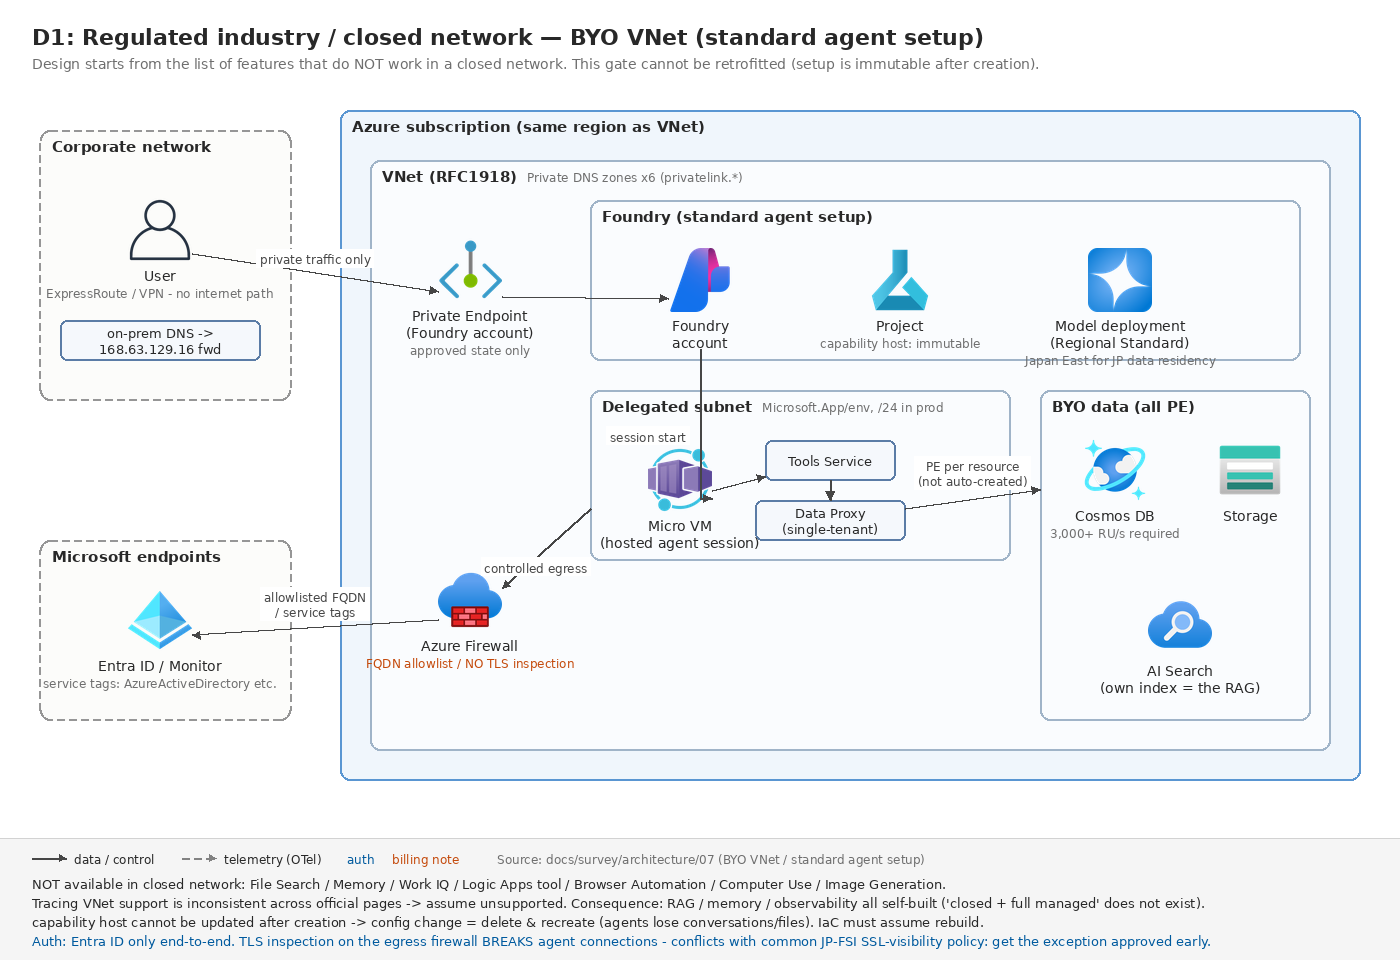
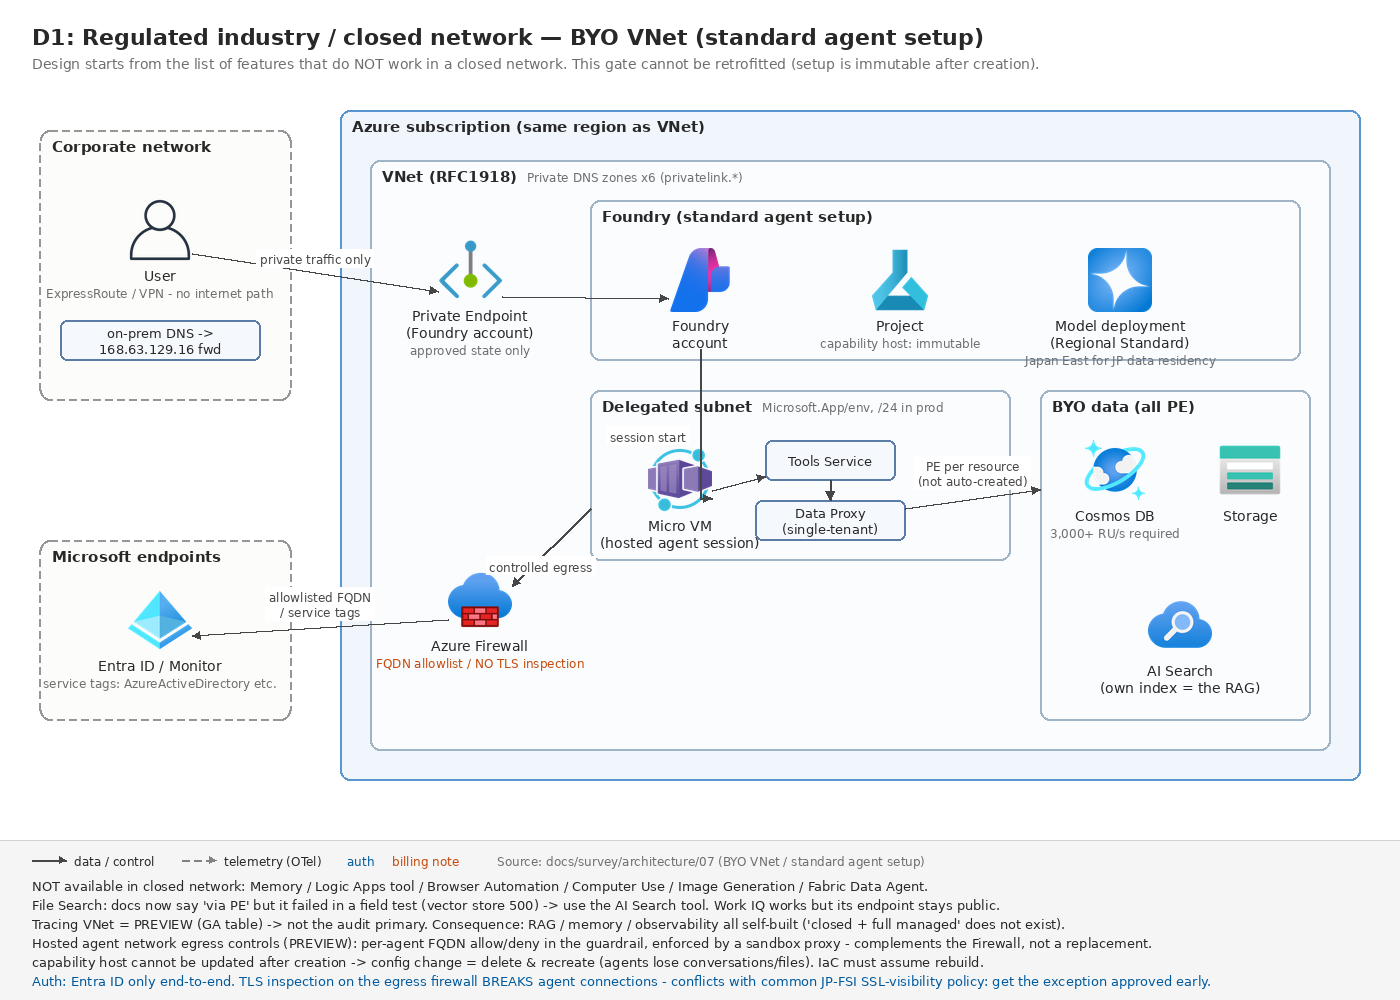
survey/architecture: refresh nine diagrams to match the September 2026 status changes.

diff --git a/docs/survey/architecture/diagrams/d3-edge-onprem.py b/docs/survey/architecture/diagrams/d3-edge-onprem.py
@@ -19,27 +19,28 @@ d = Diagram(
     "request-only) vs air-gapped tool containers (per-service).",
 )
 
-c1 = d.cluster(40, 120, 460, 740, "End-user device — Foundry Local (GA)", kind="local")
-app = d.node(170, 260, icon("cli"), "Your app + SDK\n(in-process, ONNX)",
+c1 = d.cluster(40, 120, 460, 700, "End-user device — Foundry Local (GA)", kind="local")
+app = d.node(250, 260, icon("cli"), "Your app + SDK\n(in-process, ONNX)",
              note="~20MB, GPU/NPU auto-detect")
-m1 = d.box(170, 430, 280, 52, "Chat models (GPT-OSS / Phi /\nQwen / Mistral...) + Whisper ONLY")
-n1 = d.box(170, 560, 280, 52, "single user per device\nNOT a server runtime (official)")
+m1 = d.box(250, 430, 300, 52, "Chat models (GPT-OSS / Phi /\nQwen / Mistral...) + Whisper ONLY")
+n1 = d.box(250, 560, 300, 52, "single user per device\nNOT a server runtime (official)")
 d.edge(app, m1)
 
-c2 = d.cluster(490, 120, 920, 740, "On-prem K8s — Azure Local (preview)", kind="local",
+c2 = d.cluster(490, 120, 920, 700, "On-prem K8s — Azure Local (preview)", kind="local",
                sublabel="request-only")
-arc = d.node(620, 260, az("other/arc-kubernetes.png"), "Arc extension\ninference operator",
+arc = d.node(705, 260, az("other/arc-kubernetes.png"), "Arc extension\ninference operator",
              note="Model / ModelDeployment CRDs")
-eng = d.box(620, 430, 290, 48, "ONNX-GenAI (CPU/GPU) or\nvLLM (GPU, high-throughput)")
-gw = d.box(620, 550, 290, 52, "Service / Gateway API\nkey / Entra (disconnected: on-prem AD)")
+eng = d.box(705, 430, 300, 48, "ONNX-GenAI (CPU/GPU) or\nvLLM (GPU, high-throughput)")
+gw = d.box(705, 545, 330, 62, "Service / Gateway API\nkey / Entra / K8s SAT (ext. 2609)\n(disconnected: on-prem AD)")
+rd = d.box(705, 645, 330, 44, "ext. 2609: extension MI needs Reader\non the Arc K8s cluster (new prereq)")
 d.edge(arc, eng)
 d.edge(eng, gw)
 
-c3 = d.cluster(950, 120, 1360, 740, "Air-gapped — disconnected containers", kind="local")
-di = d.node(1080, 260, icon("container"), "Document Intelligence\ncontainer",
+c3 = d.cluster(950, 120, 1360, 700, "Air-gapped — disconnected containers", kind="local")
+di = d.node(1155, 260, icon("container"), "Document Intelligence\ncontainer",
             note="the ONLY structured extraction on-prem")
-oth = d.box(1080, 430, 300, 52, "Vision Read OCR / Speech /\nLanguage / Translator (gated)")
-cu = d.box(1080, 560, 300, 52, "Content Understanding:\nNO container -> impossible on-prem")
+oth = d.box(1155, 430, 320, 52, "Vision Read OCR / Speech /\nLanguage / Translator (gated)")
+cu = d.box(1155, 560, 320, 52, "Content Understanding:\nNO container -> impossible on-prem")
 
 d.footer(
     notes=[
@@ -51,8 +52,8 @@ d.footer(
         "subscription. Content Safety container docs are inconsistent -> verify before air-gap deals.",
     ],
     auth=[
-        "Auth: device = none (local) / Azure Local connected = Entra, disconnected = on-prem AD "
-        "(Contributor role includes data-plane inference - broader than cloud RBAC)",
+        "Auth: device = none / Azure Local: Entra (connected), on-prem AD (disconnected), K8s SAT for "
+        "in-cluster calls (2609) / Contributor includes data-plane inference",
     ],
     config_note="Source: docs/survey/architecture/07 §9",
 )

diff --git a/docs/survey/architecture/diagrams/b2-hitl-automation.py b/docs/survey/architecture/diagrams/b2-hitl-automation.py
@@ -14,7 +14,7 @@ from archdiagram import BLUE, ORANGE, TELEM, Diagram, az, icon, res  # noqa: E40
 d = Diagram(
     "B2: Approval-gated automation (HITL) — MAF hosted agent",
     width=1400,
-    height=900,
+    height=920,
     subtitle="Agent investigates -> proposes action -> human approves -> execute -> audit. "
     "Prompt agents cannot express this: branch / wait / resume => code-first.",
 )
@@ -35,12 +35,12 @@ hosted = d.node(490, 300, icon("containerapp"), "Hosted agent\ncontainer", note=
 triage = d.box(660, 260, 110, 40, "triage")
 research = d.box(800, 260, 110, 40, "research\n(RAG)")
 proposal = d.box(800, 340, 110, 40, "action\nproposal")
-hitl = d.box(660, 340, 120, 44, "RequestInfo\nExecutor (HITL)")
+hitl = d.box(660, 340, 130, 44, "RequestInfo\nExecutor (HITL)")
 execute = d.box(660, 430, 110, 40, "execute\n(tools)")
 audit = d.box(800, 430, 110, 40, "audit\nrecord")
 d.edge(triage, research)
 d.edge(research, proposal)
-d.edge(proposal, hitl, label="approve?", label_t=0.5, label_dy=14)
+d.edge(proposal, hitl, label="approve?", label_t=0.5, label_dy=28)
 d.edge(hitl, execute, label="approved", label_t=0.5, label_dx=-40)
 d.edge(execute, audit)
 
@@ -57,8 +57,8 @@ erp = d.node(1270, 570, icon("browser"), "Core systems /\nLogic Apps connectors"
 
 # --- edges -------------------------------------------------------------------
 d.edge(teams, hosted, label="Responses API", label_t=0.45, label_dy=-14)
-d.edge(hitl.port("left", 0.5), (310, 362), arrow=False, color=BLUE)
-d.edge((310, 362), user, label="approval request /\ndecision", label_color=BLUE, label_t=0.4,
+d.edge(hitl.port("left", 0.5), (310, 405), via=[(580, 340), (580, 405)], arrow=False, color=BLUE)
+d.edge((310, 405), user, label="approval request /\ndecision", label_color=BLUE, label_t=0.4,
        label_dy=-26, color=BLUE)
 d.edge(ha.port("right", 0.25), model, label="chat + tool calls", label_t=0.4, label_dy=-12)
 d.edge(execute, apim, via=[(660, 610), (1230, 610)], label="MCP tool calls",
@@ -69,10 +69,12 @@ d.edge(ha.port("right", 0.75), appi, style="dashed", color=TELEM,
 
 d.footer(
     notes=[
-        "Idle 15 min = compute deprovision (state kept) / 30 days inactive = permanent delete. "
-        "Multi-day approvals -> B3 (Durable Extension + DTS).",
+        "Idle timeout (default 15 min, 2-60 min per agent version) = compute deprovision (state kept) / "
+        "30 days inactive = permanent delete.",
+        "Multi-day approvals -> B3 (Durable Extension + DTS), or in-agent long-running HITL "
+        "(@multi_turn_task + durable state store) = PREVIEW.",
         "Tracing is NOT the business audit log: 90-day portal window, traces may carry prompts/PII, "
-        "no VNet support -> keep who/when/what-approved in your own store (MAF middleware).",
+        "Tracing VNet = preview -> keep who/when/what-approved in your own store (MAF middleware).",
         "$Billing = CPU + memory of all active sessions; oversizing multiplies by concurrency. "
         "MAF Graph API is the supported surface (Functional API is experimental).",
     ],

diff --git a/docs/survey/architecture/diagrams/e1-voice.py b/docs/survey/architecture/diagrams/e1-voice.py
@@ -14,7 +14,7 @@ from archdiagram import BLUE, ORANGE, Diagram, az, icon, res  # noqa: E402
 d = Diagram(
     "E1: Voice agent / contact center — Voice Live via ACS (SIP is not native)",
     width=1400,
-    height=860,
+    height=880,
     subtitle="Voice Live = managed speech-to-speech (STT + LLM + TTS + avatar in one API). "
     "Telephony arrives through Azure Communication Services, never directly.",
 )
@@ -30,13 +30,15 @@ mid = d.node(650, 280, az("appservices/app-services.png"), "Your middle tier\n(s
              note="never client-direct in prod")
 
 vl = d.cluster(790, 160, 1330, 600, "Voice Live API (Speech resource)", kind="sub",
-               sublabel="Preview per GA table (2026-07)")
+               sublabel="API = GA / portal agent UI = preview")
 sess = d.node(890, 300, icon("speech"), "Voice Live\nsession",
               note="WebSocket (prod) / WebRTC (preview)")
 stt = d.box(1130, 230, 170, 40, "STT (azure /\nwhisper / mai)")
 llm = d.box(1130, 310, 170, 44, "LLM (gpt-realtime /\ngpt-5.x / phi4)")
 tts = d.box(1130, 400, 170, 44, "TTS 600+ voices\n/ avatar (WebRTC)")
 tools = d.box(1000, 510, 280, 40, "function calling / MCP / VoiceRAG")
+va = d.box(560, 560, 400, 64, "Alt (preview): voice-based agent (kind: voice)\n"
+           "phone channel: Teams Phone (via ACS) / Twilio\nruns on Voice Live - no middle tier to write")
 
 d.edge(caller, acs, label="audio", label_t=0.5, label_dy=-14)
 d.edge(acs, mid, label="bidirectional stream (WS)\nPCM 16/24kHz, 20ms", label_t=0.5, label_dy=-28)
@@ -44,16 +46,20 @@ d.edge(mid, sess, label="WebSocket\n+ Entra ID", label_color=BLUE, label_t=0.5, 
 d.edge(sess, stt, label="audio in", label_t=0.55, label_dy=-16)
 d.edge(stt, llm)
 d.edge(llm, tts)
-d.edge(tts, sess, label="audio out", label_t=0.45, label_dy=18)
+d.edge((140, 306), va, via=[(140, 560)], label="phone number binding\n(preview)", label_t=0.62,
+       label_dy=-24)
+d.edge(tts, sess, label="audio out", label_t=0.3, label_dy=-16)
 
 d.footer(
     notes=[
-        "Sizing starts from quotas: max session 60 min / 30 new connections per min / "
-        "TPM = NCPM x 4,000 -> contact-center scale ALWAYS needs a quota request.",
+        "Sizing starts from quotas: max session 60 min / NCPM 100 / TPM <= 120,000 (page conflicts with "
+        "TPM = NCPM x 4,000) -> contact-center scale ALWAYS needs a quota request.",
         "429 also fires while autoscale catches up -> exponential backoff mandatory "
         "(official ramp: +20 connections per 90-120s).",
         "Guardrails do NOT apply to voice models -> run Content Safety on the text path "
         "after STT. Semantic VAD supports Japanese; barge-in built in.",
+        "Status by surface: Voice Live API (WebSocket / SDK) + hosted agents x Voice Live = GA / portal "
+        "'Agents - Voice Live', voice-based agents, phone channel = PREVIEW.",
     ],
     auth=[
         "Auth: Entra ID recommended (agent-connect mode REQUIRES Entra) / WebRTC is preview: "

diff --git a/docs/survey/architecture/diagrams/e4-media-gen.py b/docs/survey/architecture/diagrams/e4-media-gen.py
@@ -14,7 +14,7 @@ from archdiagram import BLUE, ORANGE, Diagram, az, icon, res  # noqa: E402
 d = Diagram(
     "E4: Image / video generation — queue-based load leveling is mandatory",
     width=1400,
-    height=860,
+    height=880,
     subtitle="Rate limits rule the design: images 6-36 RPM (Data Zone = 1/3), Sora 2 at "
     "2 job RPM + 2 concurrent + 24h job expiry. No official AAC pattern exists.",
 )
@@ -26,9 +26,9 @@ azc = d.cluster(290, 110, 1360, 700, "Azure subscription", kind="azure")
 queue = d.node(420, 280, az("storage/queues-storage.png"), "Queue\n(load leveling)")
 worker = d.node(630, 280, icon("containerapp"), "Worker\n(rate-limited)",
                 note="429 -> exponential backoff")
-img = d.node(870, 200, icon("model"), "Images: sync API\n(gpt-image-2 GA / FLUX.2)",
-             note="RPM only, no TPM; Data Zone = 1/3 of Global", note_color=ORANGE)
-vid = d.node(870, 420, icon("model"), "Video: Sora 2 jobs\n(preview)",
+img = d.node(870, 200, icon("model"), "Images: sync API\n(gpt-image-2 / -2.5 GA, FLUX.2)",
+             note="RPM only; Data Zone = 1/3; 2.5 = 5 RPM", note_color=ORANGE)
+vid = d.node(870, 420, icon("model"), "Video: Sora 2 jobs\n(preview, retires 2026-10-15)",
              note="2 RPM / 2 concurrent / job expires in 24h", note_color=ORANGE)
 blob = d.node(1130, 300, az("storage/blob-storage.png"), "Blob\n(evacuate <= 24h)",
               note="no BYO-storage output documented")
@@ -37,17 +37,19 @@ pub = d.box(1130, 610, 230, 44, "promote to\npublic storage")
 
 d.edge(api, queue)
 d.edge(queue, worker)
-d.edge(worker, img, label="generate (sync)", label_t=0.35, label_dy=-24)
+d.edge(worker, (834, 210), label="generate (sync)", label_t=0.4, label_dy=-16)
 d.edge(worker, vid, label="create job -> poll\n(state in Cosmos DB)", label_t=0.5, label_dy=26)
 d.edge(img, blob, route="hv")
-d.edge(vid, blob, route="hv")
+d.edge((904, 420), (1096, 300), via=[(1010, 420), (1010, 300)])
 d.edge(blob, safety)
 d.edge(safety, pub)
 
 d.footer(
     notes=[
-        "Provenance: images get C2PA Content Credentials automatically (doc is classic-portal "
-        "only; gpt-image-2 not explicitly listed) - video has NO documented provenance -> DIY C2PA.",
+        "Provenance: new Foundry article lists gpt-image-1-mini / -1.5 / -2 (C2PA + invisible watermark); "
+        "gpt-image-1 & -2.5 not listed; video has NONE -> DIY C2PA.",
+        "Lifecycle: gpt-image-2.5-sunburst / -flare GA (GlobalStandard only, fixed 5 RPM at every tier, no "
+        "Data Zone) / sora-2 retires 2026-10-15 with NO successor / gpt-image-1 retires 2026-10-23.",
         "Sora 2 RAI blocks: IP & photorealistic content, real people, copyrighted characters/music, "
         "faces in input images -> kills many commercial use cases; check at planning stage.",
         "Data-residency vs throughput collide head-on: Data Zone image RPM is 1/3 of Global. "

diff --git a/docs/survey/architecture/diagrams/a5-foundry-iq.py b/docs/survey/architecture/diagrams/a5-foundry-iq.py
@@ -14,7 +14,7 @@ from archdiagram import BLUE, ORANGE, Diagram, az, icon, res  # noqa: E402
 d = Diagram(
     "A5: Multi-source, high-accuracy retrieval — Foundry IQ (agentic retrieval)",
     width=1400,
-    height=840,
+    height=880,
     subtitle="Knowledge base = the shared knowledge layer. MCP-served, so Agent Service, MAF, "
     "LangGraph and your own apps all consume the SAME knowledge.",
 )
@@ -35,11 +35,12 @@ ks4 = d.box(1230, 490, 140, 52, "SharePoint /\nSQL / MCP\n(preview)")
 agent = d.node(230, 240, icon("project"), "Foundry agent\n(Agent Service)",
                note="knowledge_base_retrieve tool")
 maf = d.node(230, 420, icon("cli"), "MAF / LangGraph /\nyour own app", note="same KB via MCP")
-resp = d.box(230, 590, 250, 48, "Azure OpenAI Responses API\n(for per-user SharePoint authz)")
+resp = d.box(230, 590, 250, 48, "Azure OpenAI Responses API\n(alternative path, per-user authz)")
 
-d.edge(agent, kb, label="MCP\n(2026-05-01-preview)", label_t=0.45, label_dy=-26)
+d.edge(agent, kb, label="MCP (2026-08-01-preview)\n+ per-call user token header", label_color=BLUE,
+       label_t=0.45, label_dy=-26)
 d.edge(maf, kb, label="MCP", label_t=0.5, label_dy=-14)
-d.edge(resp, kb, label="official path for per-user\npermission passthrough", label_color=BLUE,
+d.edge(resp, kb, label="user token\nheader passthrough", label_color=BLUE,
        label_t=0.4, label_dy=26)
 d.edge(kb, model)
 d.edge(kb, ks1)
@@ -52,13 +53,17 @@ d.footer(
         "GA vs preview is cut by REST API version: portal-built configs are ALL preview; "
         "GA requires REST/SDK 2026-04-01 directly. SLA clauses hinge on this.",
         "GA loses ingestionPermissionOptions -> 'GA config + doc-level ACL' do NOT coexist today "
-        "(ACL needs 2026-05-01-preview).",
+        "(ACL needs a preview API; latest = 2026-08-01-preview).",
         "$Billing: AI Search knowledgeRetrieval tokens (50M free/month) + AOAI planning/synthesis. "
-        "S3 HD tier has ZERO knowledge sources = agentic retrieval unusable.",
+        "S3 HD: knowledge-source limit 0 -> 1,000/partition or 3,000/service",
+        "$(limits page 2026-09-16), but some older S3 HD services are unsupported -> verify KB creation "
+        "on the actual service first.",
     ],
     auth=[
-        "Auth: Agent Service cannot send request-scoped MCP headers -> per-user SharePoint authz "
-        "officially requires the Responses API path, not Agent Service",
+        "Auth: Agent Service CAN pass the user token per call (structured input -> {{placeholder}} in "
+        "MCP header x-ms-query-source-authorization).",
+        "Auth: NO token = permission-enabled sources return results UNFILTERED (no error) -> "
+        "enforce a token-required check in the caller.",
     ],
     config_note="Source: docs/survey/architecture/04 A5",
 )

diff --git a/docs/survey/architecture/diagrams/b4-multi-agent.py b/docs/survey/architecture/diagrams/b4-multi-agent.py
@@ -14,7 +14,7 @@ from archdiagram import BLUE, ORANGE, Diagram, az, icon, res  # noqa: E402
 d = Diagram(
     "B4: Multi-agent with domain specialization — MAF workflow + hosted agents",
     width=1400,
-    height=880,
+    height=900,
     subtitle="Only when per-domain prompts / knowledge / PERMISSIONS must differ, or parallel "
     "research pays. Single agent + tools is enough for most cases (-> ch.11).",
 )
@@ -36,22 +36,24 @@ model = d.node(920, 410, icon("model"), "Model\ndeployment(s)", note="size per a
 
 ext = d.cluster(1090, 200, 1340, 450, "Partner / other org", kind="external")
 pa = d.node(1215, 300, icon("project"), "External agent",
-            note="A2A: text-only, no SSE (preview)")
+            note="A2A v1.0 GA / v0.3 preview")
 
 d.edge(user, wf)
 d.edge(wf, a1, label="sequential / concurrent /\nhandoff / group chat / magentic",
        label_t=0.45, label_dy=-30)
-d.edge(wf, a2)
-d.edge(wf, a3)
+d.edge(wf.port("right", 0.3), a2)
+d.edge(wf.port("right", 0.3), a3)
 d.edge(a2, model, label="each agent -> model\n(size per task)", label_t=0.5, label_dy=-28)
-d.edge(a1, pa, label="A2A (Entra required)", label_color=BLUE, label_t=0.55, label_dy=-16)
+d.edge(a1, pa, label="A2A v1.0 (Entra required)", label_color=BLUE, label_t=0.55, label_dy=-16)
 
 d.footer(
     notes=[
         "Portal visual Workflows retire 2026-12-01 -> MAF (code, recommended) / Logic Apps (visual) / "
         "A2A (simple delegation). Export the YAML before the designer disappears.",
-        "Prompt agents SHARE one identity per project -> per-agent permissions & audit need hosted "
-        "agents (each gets its own Entra Agent ID) or separate projects.",
+        "A2A: v1.0 (tool type a2a) is GA; v0.3 / a2a_preview = preview AND the default when unversioned "
+        "-> pin A2A-Version: 1.0. Still text-only, no SSE.",
+        "Prompt agents share one project identity (classic model; new object model = per-agent, check "
+        "agent.identity) -> hosted agents or separate projects.",
         "Security trimming must be implemented in EVERY agent (official). Anti-patterns: agents "
         "without real specialization, shared mutable state between parallel agents.",
     ],

diff --git a/docs/survey/architecture/diagrams/d1-closed-network.py b/docs/survey/architecture/diagrams/d1-closed-network.py
@@ -14,7 +14,7 @@ from archdiagram import BLUE, ORANGE, TELEM, Diagram, az, icon, res  # noqa: E40
 d = Diagram(
     "D1: Regulated industry / closed network — BYO VNet (standard agent setup)",
     width=1400,
-    height=960,
+    height=1000,
     subtitle="Design starts from the list of features that do NOT work in a closed network. "
     "This gate cannot be retrofitted (setup is immutable after creation).",
 )
@@ -52,7 +52,7 @@ storage = d.node(1250, 470, az("storage/storage-accounts.png"), "Storage")
 search = d.node(1180, 625, az("appservices/cognitive-search.png"),
                 "AI Search\n(own index = the RAG)")
 
-fw = d.node(470, 600, az("network/firewall.png"), "Azure Firewall",
+fw = d.node(480, 600, az("network/firewall.png"), "Azure Firewall",
             note="FQDN allowlist / NO TLS inspection", note_color=ORANGE)
 
 # --- egress ------------------------------------------------------------------
@@ -73,10 +73,14 @@ d.edge(fw, ms, label="allowlisted FQDN\n/ service tags", label_t=0.5, label_dy=-
 
 d.footer(
     notes=[
-        "NOT available in closed network: File Search / Memory / Work IQ / Logic Apps tool / "
-        "Browser Automation / Computer Use / Image Generation.",
-        "Tracing VNet support is inconsistent across official pages -> assume unsupported. "
+        "NOT available in closed network: Memory / Logic Apps tool / Browser Automation / Computer Use / "
+        "Image Generation / Fabric Data Agent.",
+        "File Search: docs now say 'via PE' but it failed in a field test (vector store 500) -> use the AI Search "
+        "tool. Work IQ works but its endpoint stays public.",
+        "Tracing VNet = PREVIEW (GA table) -> not the audit primary. "
         "Consequence: RAG / memory / observability all self-built ('closed + full managed' does not exist).",
+        "Hosted agent network egress controls (PREVIEW): per-agent FQDN allow/deny in the guardrail, enforced by "
+        "a sandbox proxy - complements the Firewall, not a replacement.",
         "capability host cannot be updated after creation -> config change = delete & recreate "
         "(agents lose conversations/files). IaC must assume rebuild.",
     ],

diff --git a/docs/survey/architecture/diagrams/b3-durable.py b/docs/survey/architecture/diagrams/b3-durable.py
@@ -14,7 +14,7 @@ from archdiagram import BLUE, ORANGE, TELEM, Diagram, az, icon, res  # noqa: E40
 d = Diagram(
     "B3: Long-running processes with guaranteed resume — MAF + Durable Extension",
     width=1400,
-    height=800,
+    height=820,
     subtitle="Multi-day approvals, waiting on external batches, resume-from-failed-step. "
     "Check this BEFORE concluding 'MAF can't do long-running, switch to LangGraph'.",
 )
@@ -38,9 +38,9 @@ store = d.node(1030, 490, az("storage/storage-accounts.png"), "Durable state\n(f
 d.edge(user, maf, label="request", label_t=0.5, label_dy=-14)
 d.edge(evt, host.port("left", 0.75), label="resume signal", label_t=0.5, label_dy=16)
 d.edge(maf, hitl, label="request info", label_t=0.5, label_dy=-14)
-d.edge(hitl, user, label="approve / reject", label_color=BLUE, label_t=0.35, label_dy=18)
+d.edge(hitl, user, label="approve / reject", label_color=BLUE, label_t=0.55, label_dy=18)
 d.edge(maf, dur)
-d.edge(dur, dts, label="checkpoint per\nsuperstep", label_t=0.82, label_dx=10, label_dy=0,
+d.edge(dur, dts, label="checkpoint per\nsuperstep", label_t=0.6, label_dx=0, label_dy=-22,
        via=[(1030, 430)])
 d.edge(dts, store)
 d.edge(dts, maf, style="dashed", color=TELEM, label="recover / resume\nafter fault or deploy",
@@ -52,6 +52,8 @@ d.footer(
         "Reliable streaming across distributed hosts needs a separate Redis-class broker.",
         "No official pattern for DTS INSIDE a Foundry hosted agent was found -> host on Functions "
         "or your own compute when Durable is required.",
+        "In-agent alternative: long-running hosted agents (resilient execution / stream replay / state store) "
+        "= PREVIEW, a separate mechanism from DTS (-> B2).",
         "If AI is just one step and approvals/waits dominate, Logic Apps / Durable Functions alone "
         "may be the better main engine (-> B5).",
     ],

diff --git a/docs/survey/architecture/diagrams/baseline-chat.py b/docs/survey/architecture/diagrams/baseline-chat.py
@@ -45,7 +45,9 @@ storage = d.node(960, 660, az("storage/storage-accounts.png"), "Storage\nuploade
 search = d.node(1180, 660, az("appservices/cognitive-search.png"),
                 "AI Search\nFile Search index", note="keep source of truth elsewhere")
 
-egress_box = d.box(480, 460, 300, 44, "snet-agentsEgress\n(delegated Microsoft.App/environments, /24)")
+egress_box = d.box(480, 480, 300, 44, "snet-agentsEgress\n(delegated Microsoft.App/environments, /24)")
+mcp_box = d.box(480, 392, 320, 44, "snet-mcpServers (/24, added 2026-08)\n"
+                "private MCP servers (ACA internal env)")
 fw = d.node(480, 590, az("network/firewall.png"), "Azure Firewall",
             note="allowed public FQDN only / NO TLS inspection", note_color=ORANGE)
 bastion = d.node(370, 720, az("networking/bastions.png"), "Bastion")
@@ -64,6 +66,8 @@ d.edge(project, cosmos)
 d.edge(project, storage)
 d.edge(project, search)
 d.edge(foundry_c.port("left", 0.5), egress_box, label="external tool calls", label_t=0.5, label_dy=-14)
+d.edge(egress_box, mcp_box, label="TCP 443 / 31443", label_t=0.5,
+       label_dx=-72, label_dy=0)
 d.edge(egress_box, fw)
 d.edge(fw, ext, label="allowed FQDN only", label_t=0.5, label_dy=-14)
 d.edge(bastion, jump)
